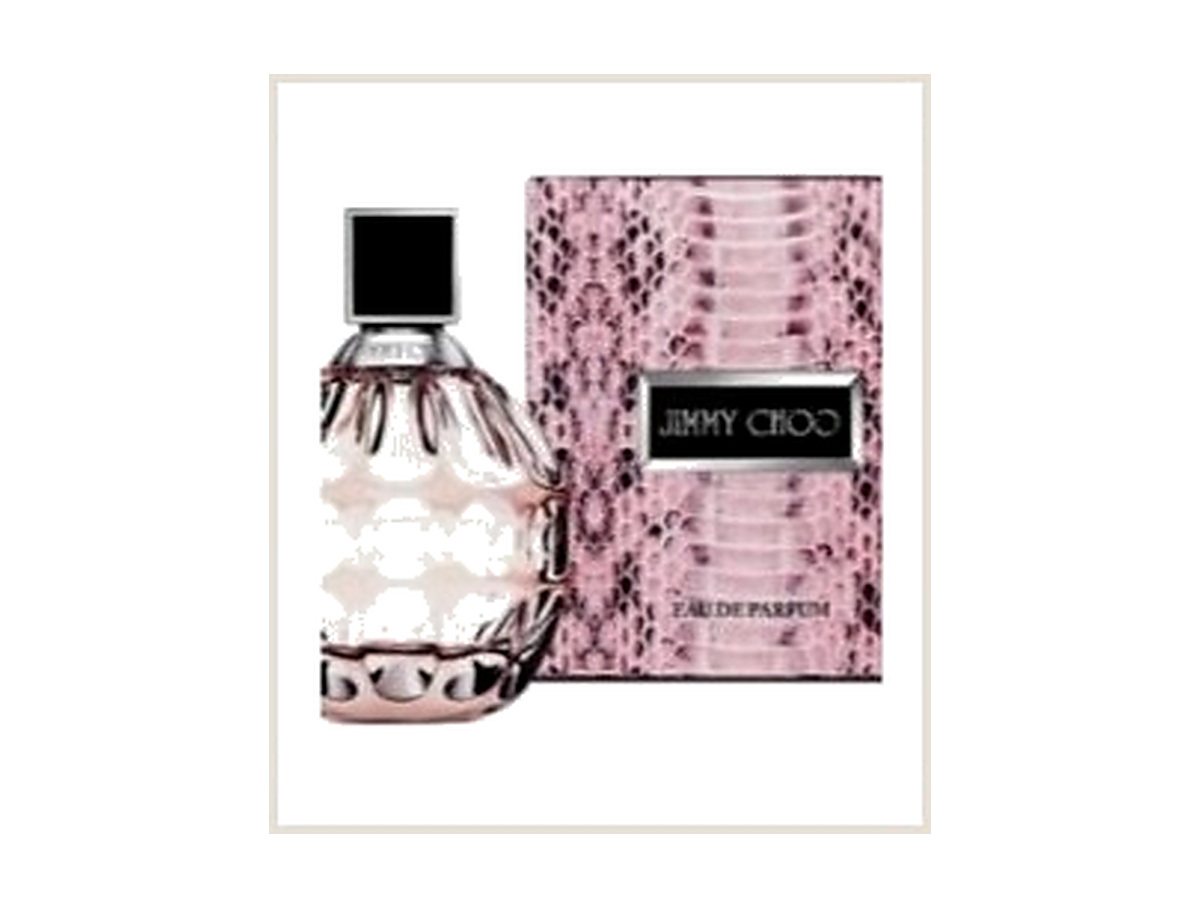
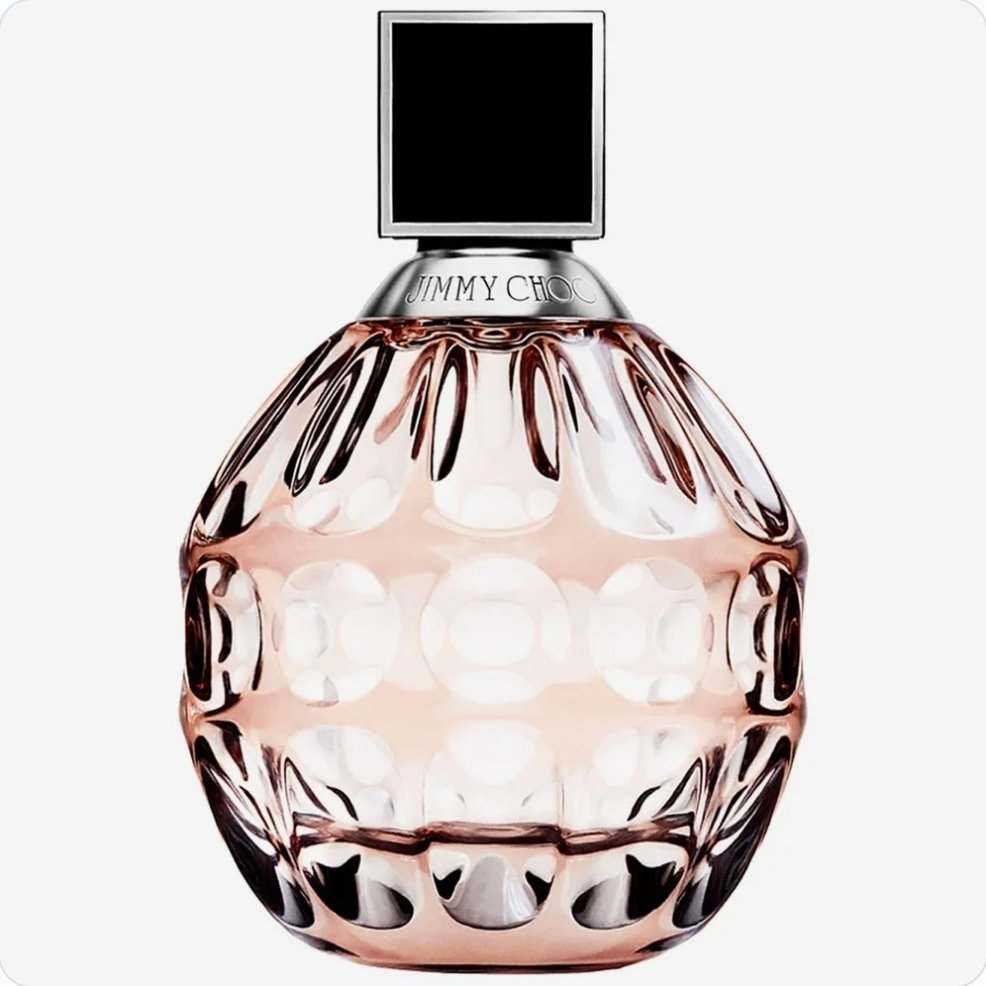
Replace Jimmy Choo (original) photos with Boss's new shots

diff --git a/index.html b/index.html
@@ -722,7 +722,7 @@
         { name:'Armaf Odyssey Homme White Edition Cologne for Men', niche:'Armaf · Men · 3.4 oz EDP', direction:'Fresh spice, vanilla and smooth woods', description:'A crisp aromatic opening is softened by warm spice, creamy vanilla and clean woods. Versatile and inviting with a smooth modern finish.', category:'fresh', images:[{src:'assets/product-armaf-odyssey-homme-white.jpg', alt:'Armaf Odyssey Homme White Edition bottle and box — clean packshot'}], price:29, decantPrice:7, originalPrice:36, featured:31, paymentLink:'https://buy.stripe.com/eVq4gB0IpaAce4q4ynf7i0Y'},
         { name:'Ariana Grande Cloud Perfume for Women (Tester)', niche:'Ariana Grande · Women · 3.4 oz EDP · Tester', direction:'Lavender, coconut cream and soft musk', description:'Tester version: the authentic 3.4 oz fragrance supplied in tester packaging rather than standard retail presentation. Airy lavender and fruit float over coconut cream, vanilla and soft musk.', category:'sweet', images:[{src:'assets/product-ariana-grande-cloud-tester.jpg', alt:'Ariana Grande Cloud tester bottle and tester box — clean packshot'},{src:'assets/gallery-ariana-grande-cloud-1.jpg', alt:'Ariana Grande Cloud Perfume for Women (Tester) — customer photo 1'}], price:45, decantPrice:11, originalPrice:56, featured:32 , paymentLink:'https://buy.stripe.com/fZu4gB1Mt6jWe4q6Gvf7i0I'},
         { name:'Dior Sauvage Parfum Cologne for Men', niche:'Dior · Men · 3.4 oz Parfum', direction:'Citrus, spice and sandalwood', description:'A fresh citrus opening gains depth from smooth spice, resinous warmth and sandalwood. Refined and full-bodied, with a polished lasting trail.', category:'woody', images:[{src:'assets/product-dior-sauvage-parfum.jpg', alt:'Dior Sauvage Parfum dark blue bottle — clean packshot'}], price:165, decantPrice:41, originalPrice:180, featured:33 , paymentLink:'https://buy.stripe.com/7sY7sNaiZ8s41hE9SHf7i0J'},
-        { name:'Jimmy Choo Perfume for Women', niche:'Jimmy Choo · Women · 3.3 oz EDP', direction:'Pear, orchid and sweet patchouli', description:'Juicy pear and a luminous floral heart settle into warm toffee-toned sweetness and patchouli. Glamorous and inviting without losing its elegance.', category:'sweet', images:[{src:'assets/product-jimmy-choo.jpg', alt:'Jimmy Choo perfume bottle and pink box — clean packshot'}], price:62, decantPrice:16, originalPrice:75, featured:34 , paymentLink:'https://buy.stripe.com/14AbJ3cr75fSgcy8ODf7i0H'},
+        { name:'Jimmy Choo Perfume for Women', niche:'Jimmy Choo · Women · 3.3 oz EDP', direction:'Pear, orchid and sweet patchouli', description:'Juicy pear and a luminous floral heart settle into warm toffee-toned sweetness and patchouli. Glamorous and inviting without losing its elegance.', category:'sweet', images:[{src:'assets/product-jimmy-choo.jpg', alt:'Jimmy Choo perfume bottle on a clean white background'},{src:'assets/product-jimmy-choo-2.jpg', alt:'Jimmy Choo perfume bottle held in a campaign-style shot'}], price:62, decantPrice:16, originalPrice:75, featured:34 , paymentLink:'https://buy.stripe.com/14AbJ3cr75fSgcy8ODf7i0H'},
         { name:'French Avenue Vulcan Feu Perfume for Unisex', niche:'French Avenue · Unisex · 3.4 oz EDP', direction:'Tropical fruit, ginger and warm woods', description:'A vivid tropical-fruit opening meets bright ginger before settling into warm, smooth woods. Colorful and energetic with an easy unisex character.', category:'fresh', images:[{src:'assets/product-french-avenue-vulcan-feu.jpg', alt:'French Avenue Vulcan Feu turquoise bottle and box — clean packshot'},{src:'assets/gallery-french-avenue-vulcan-feu-1.jpg', alt:'French Avenue Vulcan Feu Perfume for Unisex — customer photo 1'},{src:'assets/gallery-french-avenue-vulcan-feu-3.jpg', alt:'French Avenue Vulcan Feu Perfume for Unisex — customer photo 2'}], price:39, decantPrice:10, originalPrice:50, featured:35 , paymentLink:'https://buy.stripe.com/aFa3cx9eVaAc7G23ujf7i0X'},
         { name:'Emporio Armani Stronger With You Intensely Cologne for Men', niche:'Emporio Armani · Men · 3.3 oz EDP', direction:'Pink pepper, toffee and vanilla amber', description:'A spicy opening melts into sweet toffee, vanilla and warm amber woods. Dense, comforting and especially suited to cool-weather evenings.', category:'sweet', images:[{src:'assets/product-armani-stronger-with-you-intensely.jpg', alt:'Emporio Armani Stronger With You Intensely bottle and box — clean packshot'},{src:'assets/gallery-armani-stronger-with-you-intensely-1.jpg', alt:'Emporio Armani Stronger With You Intensely Cologne for Men — customer photo 1'}], price:99, decantPrice:25, originalPrice:120, featured:36 , paymentLink:'https://buy.stripe.com/5kQ6oJ3UBgYA0dAc0Pf7i0W'},
         { name:'Versace Eros Cologne for Men (Tester)', niche:'Versace · Men · 3.4 oz EDT · Tester', direction:'Mint, green apple and vanilla woods', description:'Tester version: the authentic 3.4 oz fragrance supplied in tester packaging rather than standard retail presentation. Bright mint and apple lead into aromatic warmth, vanilla and smooth woods.', category:'fresh', images:[{src:'assets/product-versace-eros-tester.jpg', alt:'Versace Eros tester bottle and tester box — clean packshot'},{src:'assets/gallery-versace-eros-1.jpg', alt:'Versace Eros Cologne for Men (Tester) — customer photo 1'},{src:'assets/gallery-versace-eros-2.jpg', alt:'Versace Eros Cologne for Men (Tester) — customer photo 2'}], price:55, decantPrice:14, originalPrice:68, featured:37 , paymentLink:'https://buy.stripe.com/cNi00laiZaAc6BY7Kzf7i0K'},
